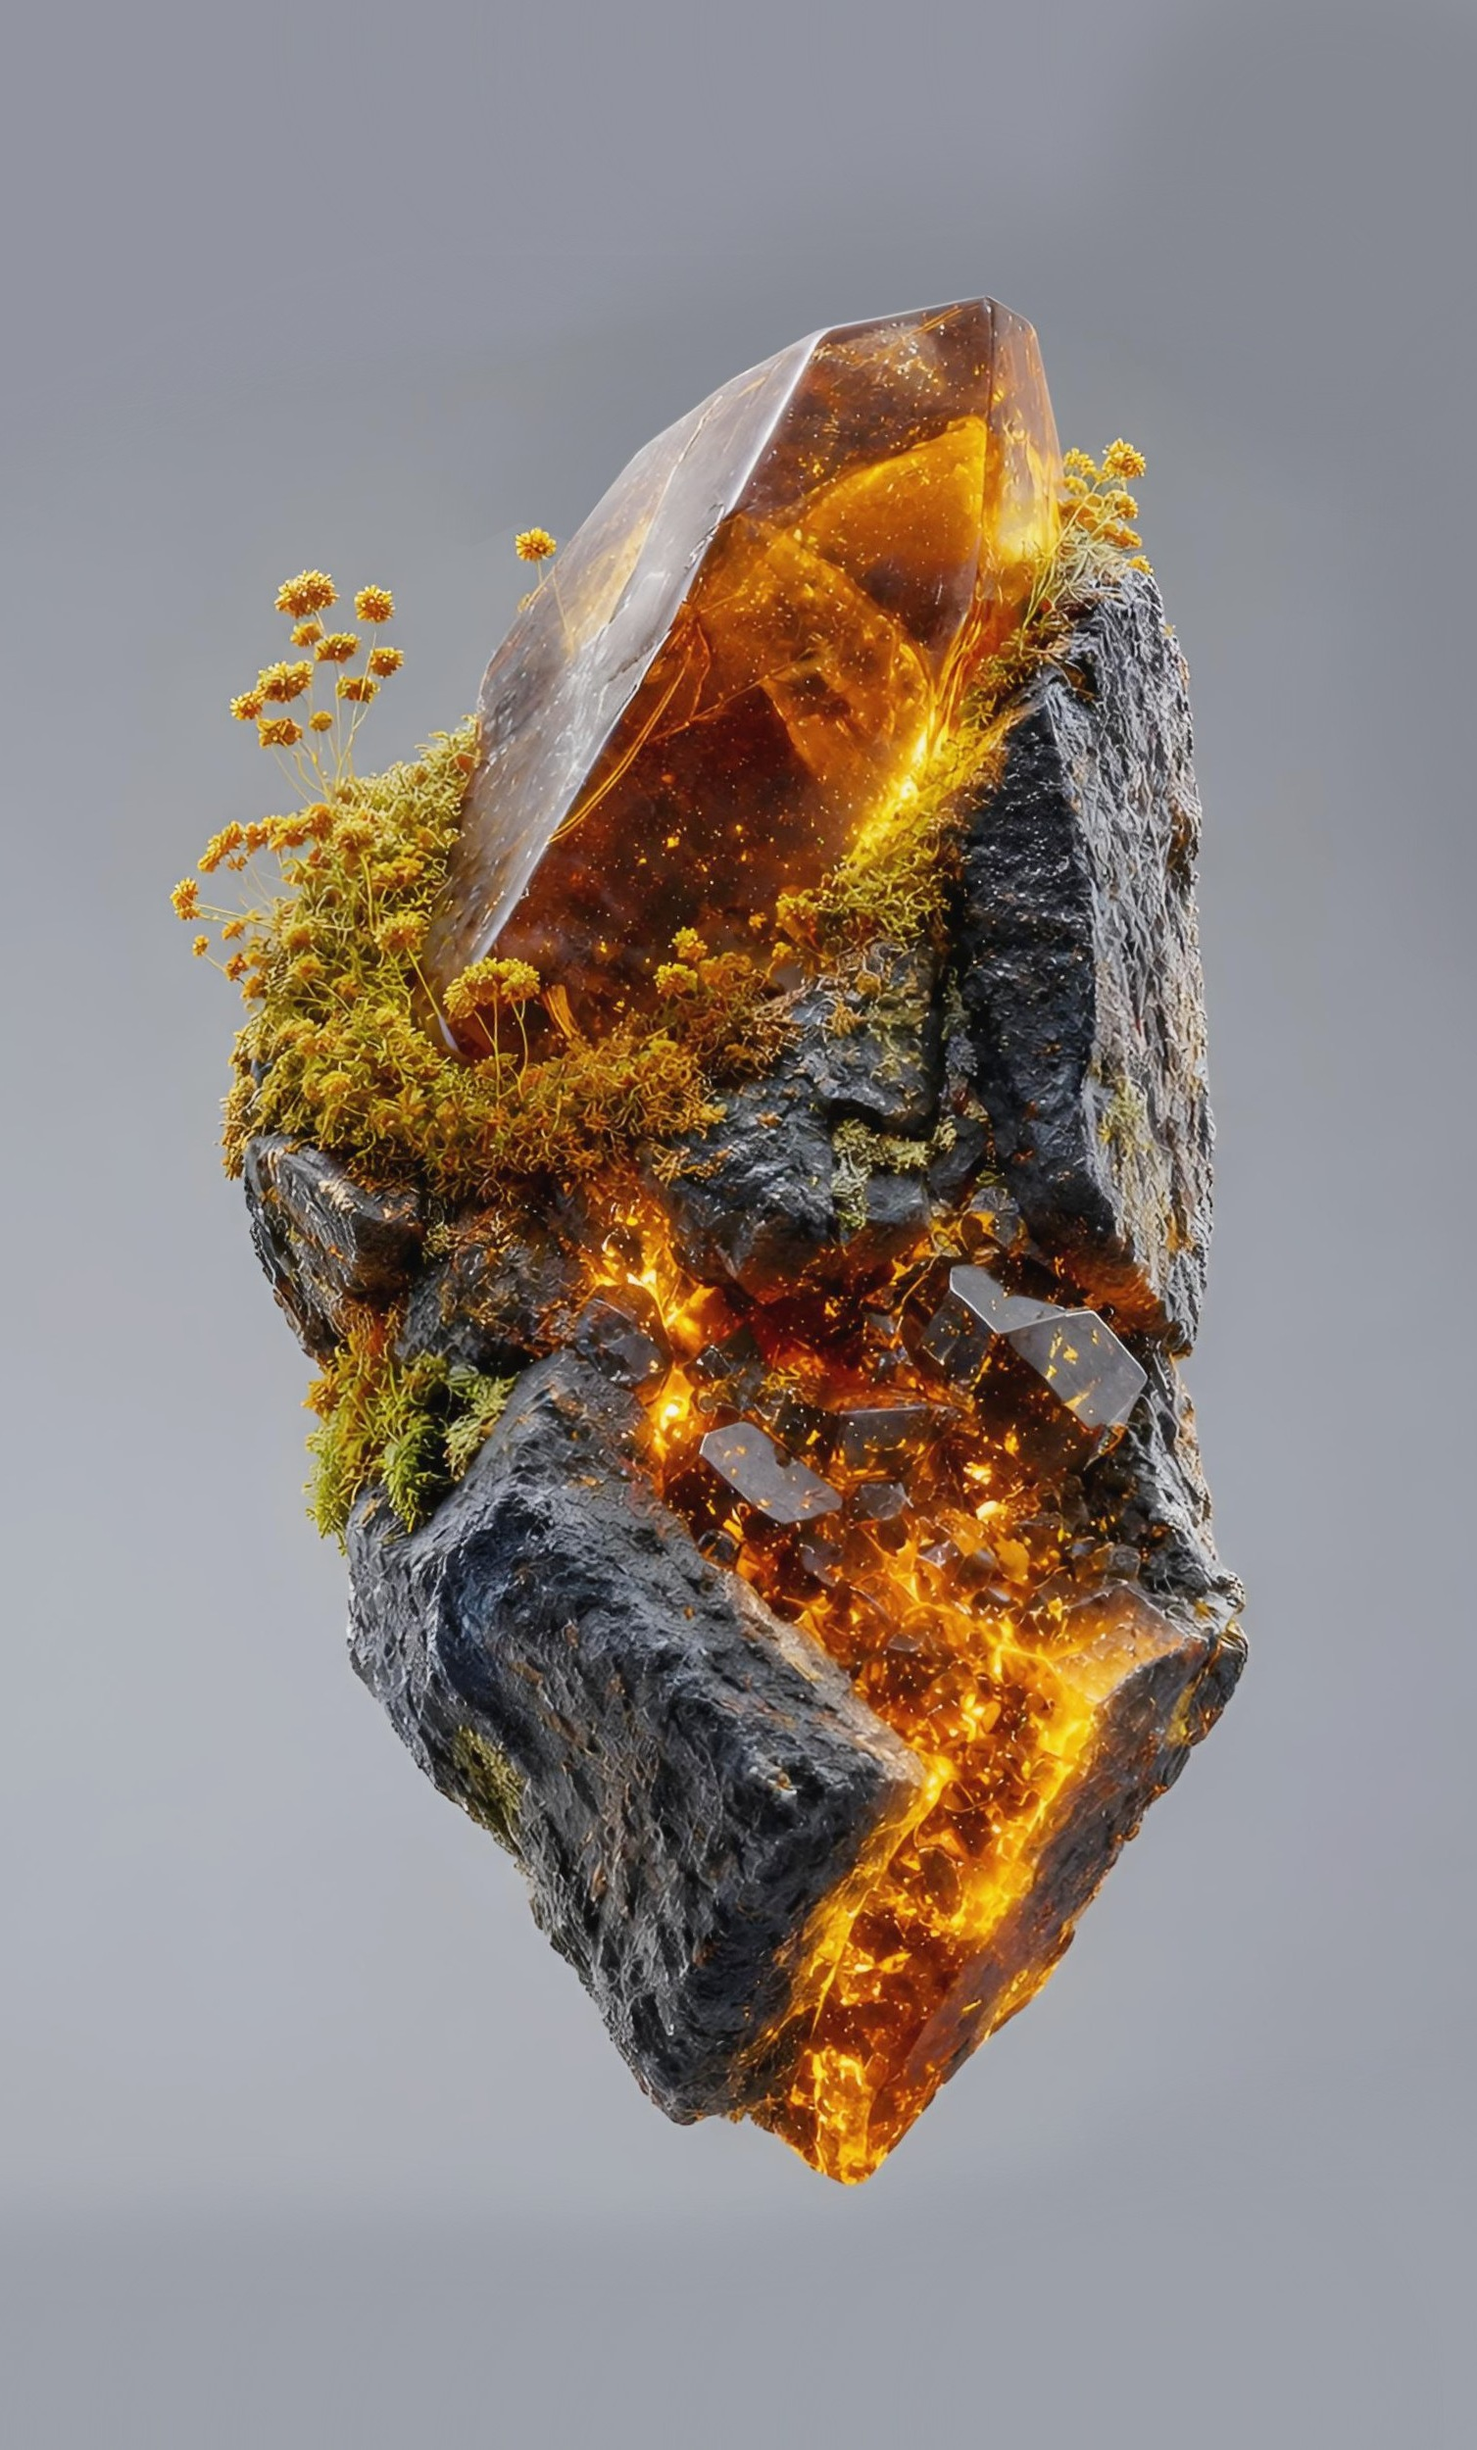
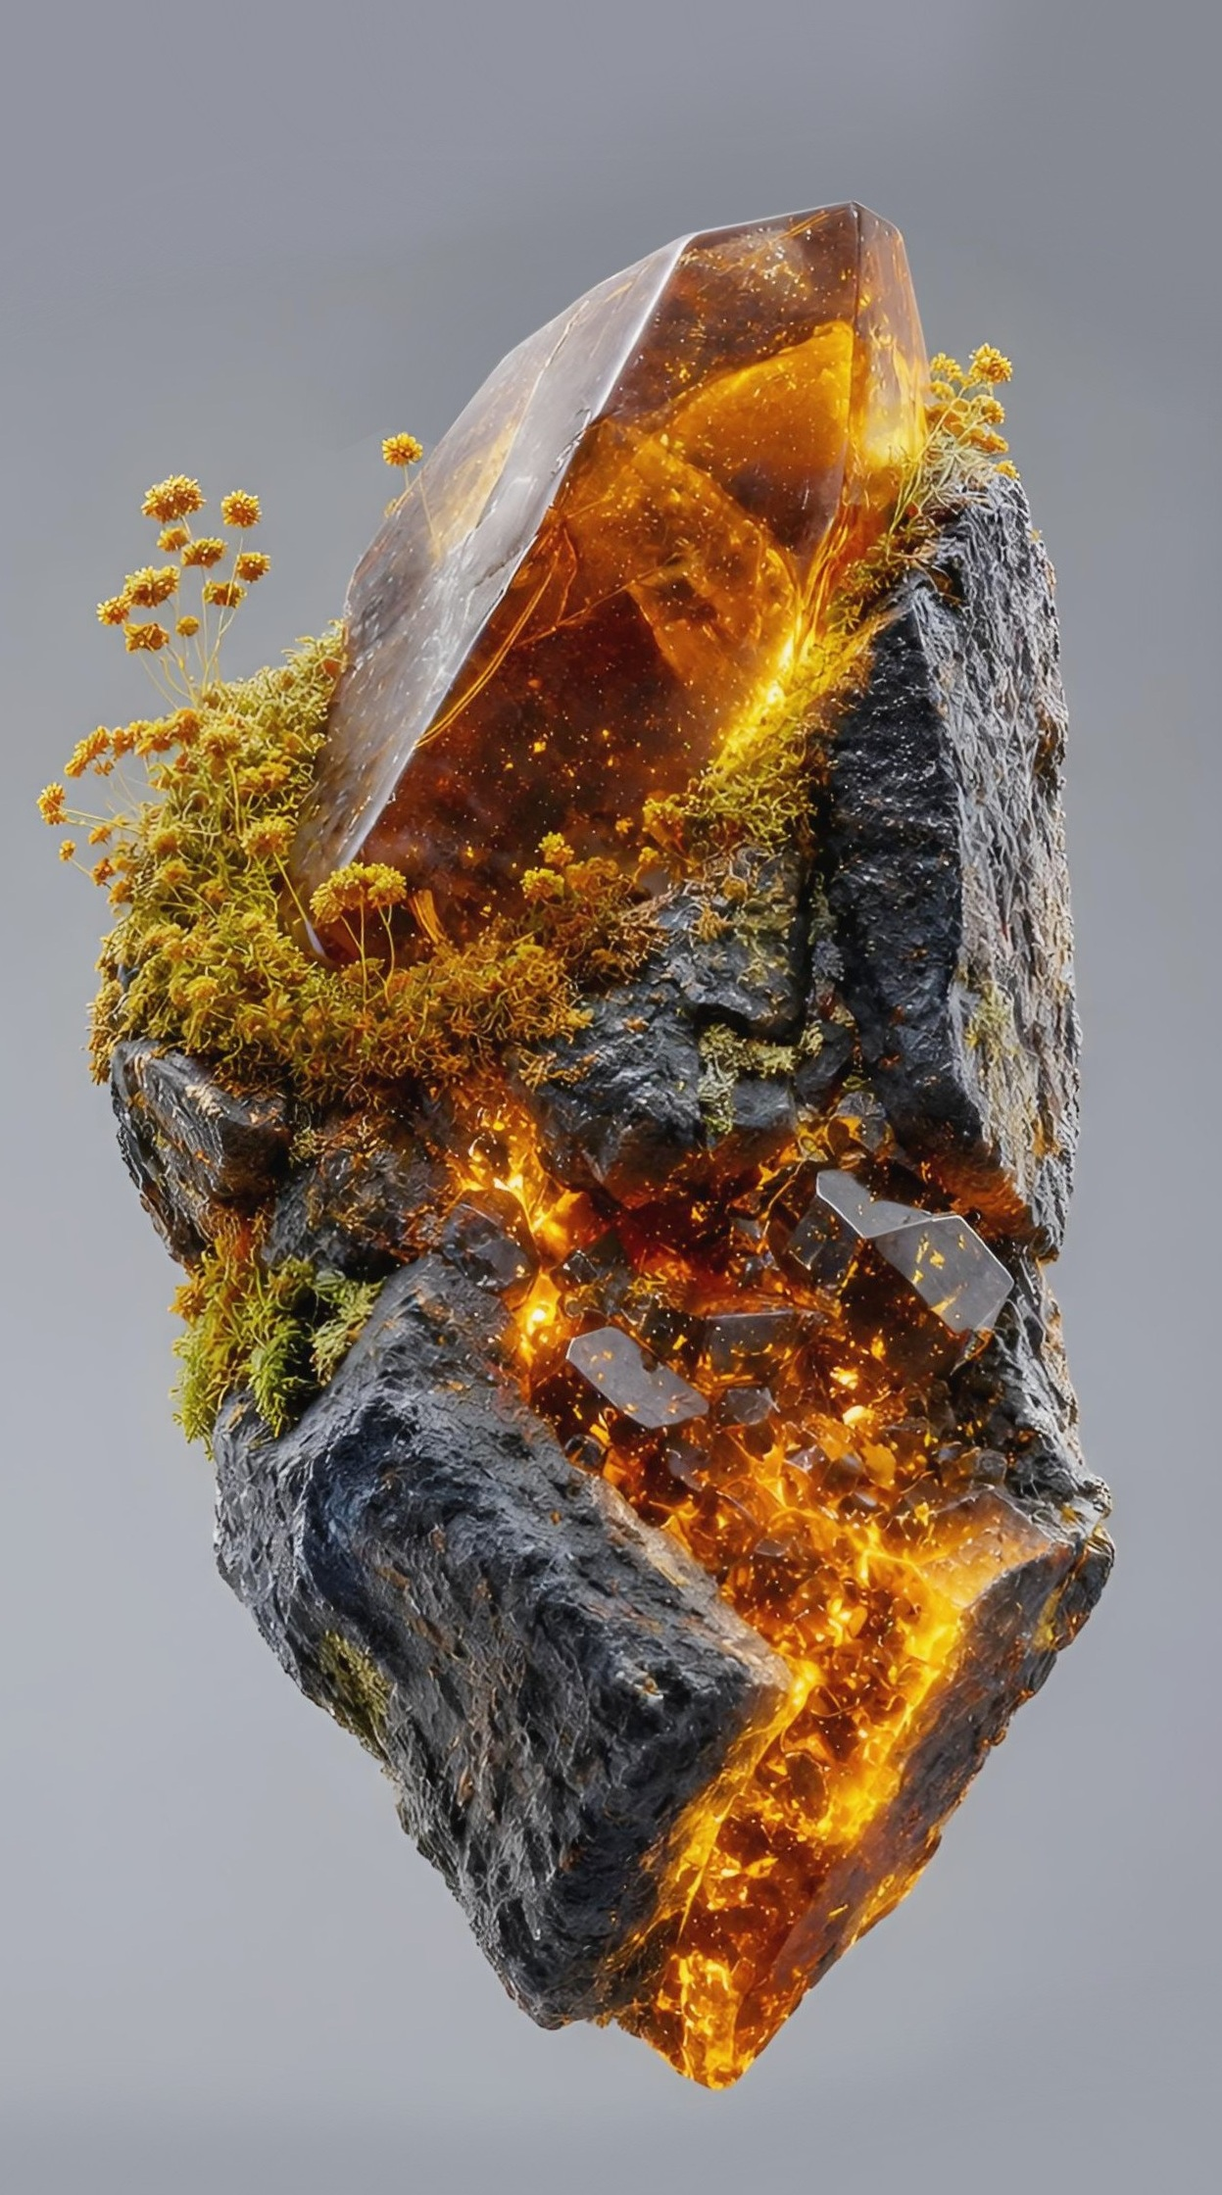
refactor: rename closed-* -> proj-* for shared project card primitives
Classes are shared between ClosedProject and FeaturedProject.
Previous name implied ClosedProject ownership only.

diff --git a/app/globals.css b/app/globals.css
@@ -119,14 +119,14 @@
    FeaturedProject + ClosedProject
    ========================= */
 
-.closed-index {
+.proj-index {
   font-size: 0.7em;
   color: var(--fg-muted);
   letter-spacing: var(--ls-meta);
   transition: color var(--dur-fade) ease;
 }
 
-.closed-title {
+.proj-title {
   position: relative;
   font-size: 3.5rem;
   font-weight: 500;
@@ -137,7 +137,7 @@
   transition: transform var(--dur-snap) var(--ease-snappy);
 }
 
-.closed-title::after {
+.proj-title::after {
   content: "";
   position: absolute;
   left: 0;
@@ -150,7 +150,7 @@
   transition: width 650ms var(--ease-snappy);
 }
 
-.closed-meta {
+.proj-meta {
   letter-spacing: var(--ls-meta);
   opacity: 0;
   transform: translateX(-0.5em);
@@ -163,5 +163,5 @@
    ========================= */
 
 @media (max-width: 900px) {
-  .closed-title     { font-size: 2.5rem; }
+  .proj-title     { font-size: 2.5rem; }
 }

diff --git a/components/ClosedProject.tsx b/components/ClosedProject.tsx
@@ -22,9 +22,9 @@ export default function ClosedProject({ project, index, meta }: ClosedProjectPro
       onClick={() => router.push(`/projects/${project.id}`)}
     >
       <div className="flex items-baseline gap-6">
-        <span className="closed-index pt-3 self-start">{index} /</span>
-        <h2 className="closed-title inline-block m-0">{project.title}</h2>
-        {meta && <span className="closed-meta label pt-3 self-start">{meta}</span>}
+        <span className="proj-index pt-3 self-start">{index} /</span>
+        <h2 className="proj-title inline-block m-0">{project.title}</h2>
+        {meta && <span className="proj-meta label pt-3 self-start">{meta}</span>}
       </div>
       <CircleButton
         icon={<FontAwesomeIcon icon={faArrowRight} />}

diff --git a/components/FeaturedProject.tsx b/components/FeaturedProject.tsx
@@ -33,9 +33,9 @@ export default function FeaturedProject({ project }: FeaturedProjectProps) {
       </div>
 
       <div className={`${styles.titleRow} flex items-baseline gap-6`}>
-        <span className="closed-index pt-3 self-start">01 /</span>
-        <h2 className="closed-title inline-block m-0">{project.title}</h2>
-        {meta && <span className="closed-meta label pt-3 self-start">{meta}</span>}
+        <span className="proj-index pt-3 self-start">01 /</span>
+        <h2 className="proj-title inline-block m-0">{project.title}</h2>
+        {meta && <span className="proj-meta label pt-3 self-start">{meta}</span>}
       </div>
 
       <div className={`${styles.featDetail} grid grid-cols-2 gap-20 items-stretch mt-16 pl-20`}>

diff --git a/components/FeaturedProject.module.css b/components/FeaturedProject.module.css
@@ -56,10 +56,10 @@
 
 /* ── Hover: global shared classes ── */
 
-.featured:hover :global(.closed-index)        { color: var(--amber); }
-.featured:hover :global(.closed-title)        { transform: translateY(-0.05em); }
-.featured:hover :global(.closed-title::after) { width: 100%; }
-.featured:hover :global(.closed-meta)         { opacity: 0.7; transform: translateX(0); }
+.featured:hover :global(.proj-index)        { color: var(--amber); }
+.featured:hover :global(.proj-title)        { transform: translateY(-0.05em); }
+.featured:hover :global(.proj-title::after) { width: 100%; }
+.featured:hover :global(.proj-meta)         { opacity: 0.7; transform: translateX(0); }
 /* ── Mobile ── */
 
 @media (max-width: 900px) {

diff --git a/components/ClosedProject.module.css b/components/ClosedProject.module.css
@@ -7,7 +7,7 @@
 
 /* ── Hover: global shared classes ── */
 
-.closed:hover :global(.closed-index)        { color: var(--amber); }
-.closed:hover :global(.closed-title)        { transform: translateY(-0.05em); }
-.closed:hover :global(.closed-title::after) { width: 100%; }
-.closed:hover :global(.closed-meta)         { opacity: 0.7; transform: translateX(0); }
+.closed:hover :global(.proj-index)        { color: var(--amber); }
+.closed:hover :global(.proj-title)        { transform: translateY(-0.05em); }
+.closed:hover :global(.proj-title::after) { width: 100%; }
+.closed:hover :global(.proj-meta)         { opacity: 0.7; transform: translateX(0); }
